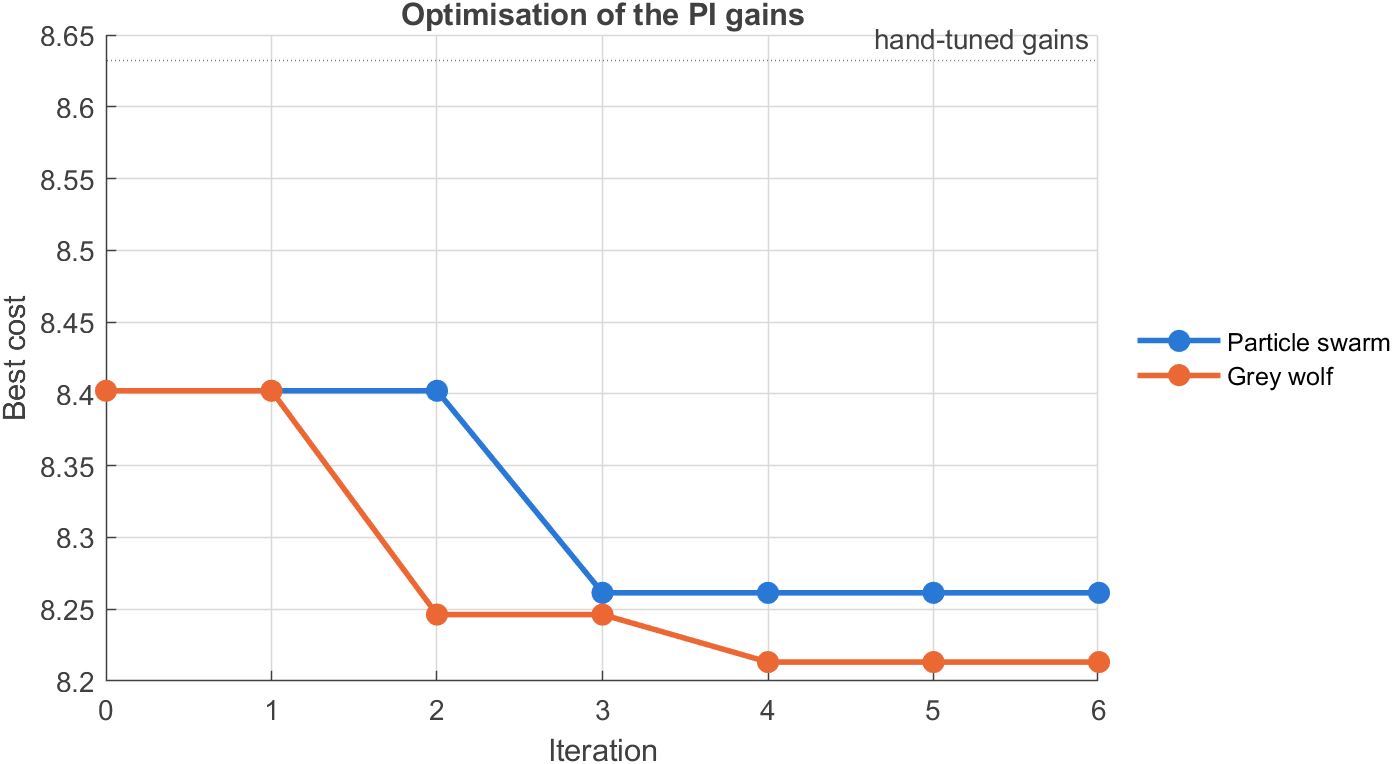
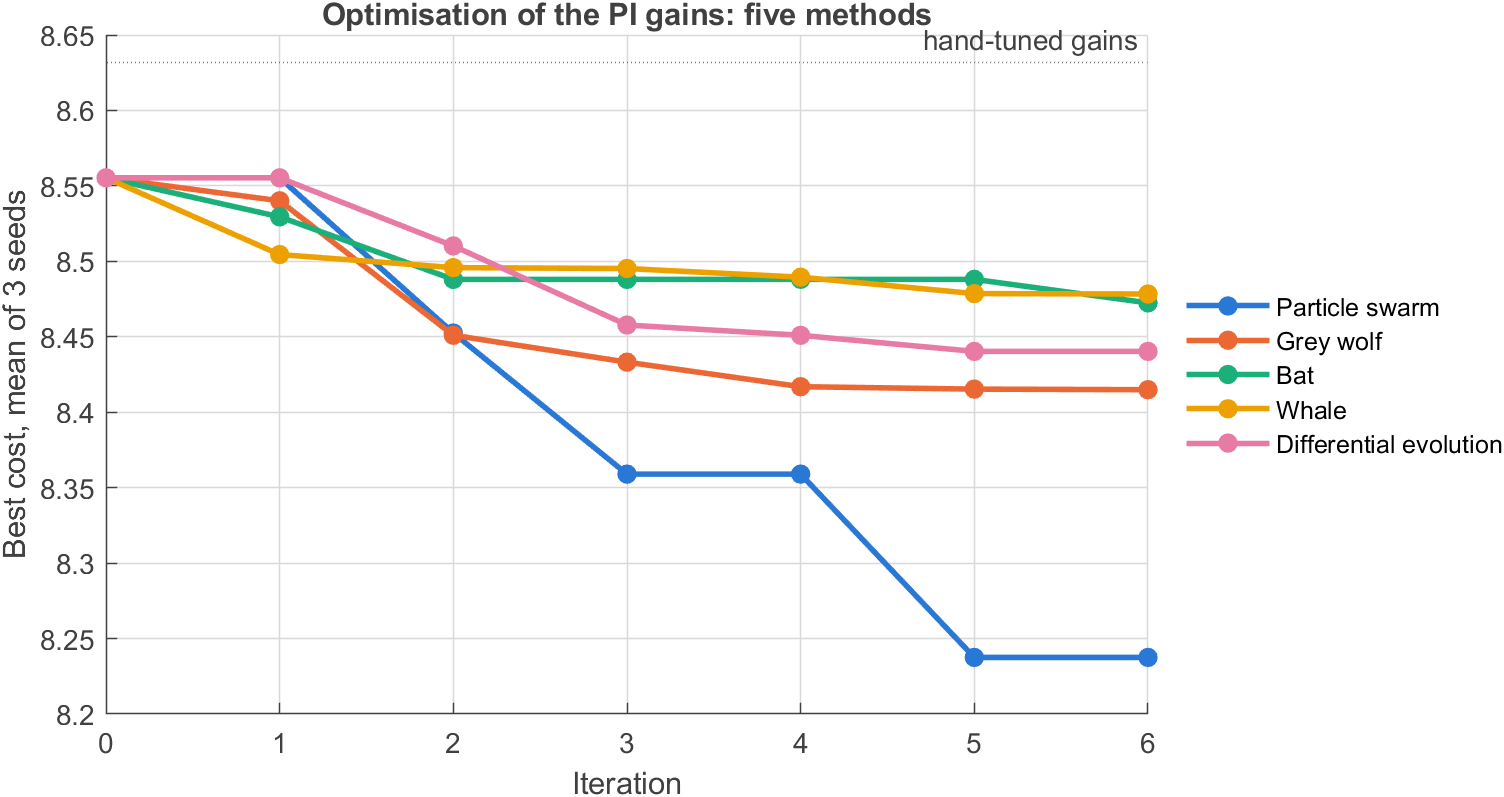
Final five-optimiser comparison over three seeds

diff --git a/README.md b/README.md
@@ -366,87 +366,70 @@ the hand-tuned PI gains.
 
 ## Optimisation of the PI gains
 
-### Five-method comparison (in progress)
+Five optimisers tune five gains on the combined model: particle swarm (PSO),
+grey wolf (GWO), bat (BA), whale (WOA) and differential evolution (DE). Every
+method uses 8 agents and 6 iterations (56 simulations per run) and, for a
+given random seed, the same starting population, which includes the
+hand-tuned gains. Each method was run with three seeds, 15 runs in all.
 
-Five optimisers are being compared on the same problem: particle swarm, grey
-wolf, bat, whale and differential evolution. Each uses 8 agents, 6 iterations
-(56 simulations) and, for a given seed, the same starting population. Three
-seeds are run per method so that the ranking rests on a mean, not on one run.
-
-Status at 07 October 2026, 00:54: 10 of 15 runs finished. The table is partial and the
-order may change as the remaining runs complete. The hand-tuned cost is
-8.632; lower is better. Methods are ordered by their mean so far, which
-is not yet comparable between methods with different numbers of finished runs.
-
-| Method | Seed 1 | Seed 2 | Seed 3 | Mean so far | Reduction from hand-tuned |
-|---|---|---|---|---|---|
-| Particle swarm | 8.261 | 8.223 | running or queued | 8.242 | 4.5 % |
-| Grey wolf | 8.213 | 8.511 | running or queued | 8.362 | 3.1 % |
-| Differential evolution | 8.246 | 8.540 | running or queued | 8.393 | 2.8 % |
-| Bat | 8.237 | 8.626 | running or queued | 8.431 | 2.3 % |
-| Whale | 8.255 | 8.618 | running or queued | 8.437 | 2.3 % |
-
-The finished runs are within about 1 % of each other, so no method can be
-called best yet. The placement and rating study and the test of each method's
-gains on all four faults follow when the runs finish.
-
-Two optimisers tune five gains on the combined model: particle swarm (PSO) and
-the grey wolf optimiser (GWO). Both use 8 agents, 6 iterations (56 simulations)
-and the same starting population, which includes the hand-tuned gains. Each
-candidate is scored on one simulation with a single line-to-ground fault. The
-cost is
+Each candidate is scored on one simulation with a single line-to-ground fault.
+The cost is
 
 `4 x load-voltage error + voltage THD + current distortion + negative-sequence current + 100 x (1 - power factor) + 0.2 x DC-link deviation`
 
 with every term in percent and the two current terms taken against the
-transformer rating.
+transformer rating. The hand-tuned gains score 8.632; lower is better.
 
-| Gain | Hand-tuned | PSO | GWO | Search range |
-|---|---|---|---|---|
-| D-STATCOM current-loop bandwidth (Hz) | 1500 | 1755 | 1570 | 500 to 2500 |
-| D-STATCOM DC-link Kp (A/V) | 1.0 | 2.35 | 2.35 | 0.2 to 5 |
-| D-STATCOM DC-link Ki (A/V/s) | 15 | 105 | 27 | 2 to 200 |
-| DVR load-voltage Kp | 0.2 | 0.90 | 0.90 | 0 to 0.9 |
-| DVR load-voltage Ki | 200 | 20 | 319 | 20 to 2000 |
-| Cost on the tuning fault | 8.632 | 8.261 | 8.213 | |
-| Reduction from hand-tuned | | 4.3 % | 4.9 % | |
-
-Each gain set was then tested on all four fault types:
-
-| Quantity | Hand-tuned | PSO | GWO |
-|---|---|---|---|
-| Cost, four faults | 8.59 / 8.60 / 9.11 / 8.83 | 8.10 / 8.21 / 8.38 / 8.14 | 8.06 / 8.17 / 8.38 / 8.13 |
-| Load voltage THD (%) | 3.55 | 3.01 | 2.88 |
-| Negative-sequence source current (% of rating) | 0.74 | 0.65 | 0.71 |
-| Source current distortion (% of rating) | 3.02 | 3.05 | 3.14 |
-| Load voltage unbalance during fault, four faults (%) | 0.04 / 0.34 / 0.77 / 0.68 | 0.03 / 0.22 / 0.49 / 0.44 | 0.02 / 0.21 / 0.48 / 0.43 |
-| DC-link deviation (%) | 1.4 | 1.7 | 1.4 |
+| Method | Seed 1 | Seed 2 | Seed 3 | Mean | Spread (std) | Mean reduction |
+|---|---|---|---|---|---|---|
+| Particle swarm | 8.261 | 8.223 | 8.228 | **8.237** | 0.021 | **4.6 %** |
+| Grey wolf | 8.213 | 8.511 | 8.521 | 8.415 | 0.175 | 2.5 % |
+| Differential evolution | 8.246 | 8.540 | 8.535 | 8.440 | 0.168 | 2.2 % |
+| Bat | 8.237 | 8.626 | 8.554 | 8.472 | 0.207 | 1.8 % |
+| Whale | 8.255 | 8.618 | 8.562 | 8.478 | 0.195 | 1.8 % |
 
 ![Optimisation convergence](results/optim_convergence.png)
 
-- Both optimisers improve on the hand-tuned gains by a small amount: 4 to 5 %
-  on the fault used for tuning and 5 to 8 % on the four test faults.
-- GWO finishes 0.6 % below PSO. With one run each and 56 simulations, that
-  difference is too small to rank the two methods; repeated runs with
-  different seeds would be needed.
-- The two agree on the D-STATCOM DC-link Kp (2.35) and push the DVR Kp to the
-  top of its range, but disagree on both integral gains. The cost is not
-  sensitive to those, so they should not be read as optima.
-- The hand-tuned gains were already close to the best the PI structure can do
-  here. The remaining limits are structural (harmonic tracking of the current
-  loop, and the wind plant outside the DVR) rather than a matter of tuning.
+**Particle swarm is the method to use for this problem.** It has the lowest
+mean cost and is the only method that did well on all three seeds; its spread
+is about eight times smaller than the others'. The other four found a good
+solution only from the first seed's starting population and improved on the
+hand-tuned gains by 1 % to 1.5 % from the other two. Grey wolf produced the
+single lowest cost (8.213), which is why a one-run comparison would have
+ranked it first.
+
+The improvement over the hand-tuned gains is small in every case, at most
+about 5 %. The hand-tuned gains were already close to what PI control can do
+here; the remaining limits are structural (harmonic tracking of the current
+loop, and the wind plant outside the DVR). With 56 simulations per run, the
+ranking is specific to this budget: methods that explore more slowly could
+catch up with more iterations.
+
+Best gains found by each method, over its three seeds:
+
+| Gain | Hand-tuned | PSO | GWO | DE | BA | WOA | Search range |
+|---|---|---|---|---|---|---|---|
+| D-STATCOM current-loop bandwidth (Hz) | 1500 | 1633 | 1570 | 1551 | 1615 | 1577 | 500 to 2500 |
+| D-STATCOM DC-link Kp (A/V) | 1.0 | 4.06 | 2.35 | 2.10 | 2.17 | 3.00 | 0.2 to 5 |
+| D-STATCOM DC-link Ki (A/V/s) | 15 | 35 | 27 | 7 | 11 | 12 | 2 to 200 |
+| DVR load-voltage Kp | 0.2 | 0.90 | 0.90 | 0.90 | 0.90 | 0.90 | 0 to 0.9 |
+| DVR load-voltage Ki | 200 | 20 | 319 | 242 | 290 | 529 | 20 to 2000 |
+
+All five agree on a current-loop bandwidth of about 1550 to 1650 Hz and a
+higher DC-link proportional gain than the hand-tuned one, and all push the
+DVR proportional gain to the top of its range. They disagree on the DVR
+integral gain, to which the cost is not sensitive.
 
 An earlier PSO run without the voltage THD term lowered its cost by 17 % but
-raised load voltage THD from 3.55 % to 4.68 %, so the term was added and the
-runs repeated. Device location and rating have not been optimised.
+raised load voltage THD from 3.55 % to 4.68 %, so the term was added and all
+runs use the corrected cost.
 
-To reproduce (each optimisation takes about 10 minutes on four cores and needs
-the Parallel Computing Toolbox; PSO also needs the Global Optimization
-Toolbox):
+To reproduce (about 2.5 hours on four cores; needs the Parallel Computing
+Toolbox, and the Global Optimization Toolbox for PSO):
 
 ```matlab
 addpath('scripts'); build_basecase; build_full;
-optimise_gains('pso'); optimise_gains('gwo'); run_full;
+compare_optimisers(1:3); run_full;
 ```
 
 ## Contents
@@ -468,7 +451,8 @@ optimise_gains('pso'); optimise_gains('gwo'); run_full;
 | `IEEE13_dg.slx` | Base-case model plus the PV plant at node 634 and the wind plant at node 675 |
 | `IEEE13_full.slx` | Base-case model plus the DVR, the D-STATCOM, the PV plant and the wind plant |
 | `scripts/build_full.m`, `scripts/run_full.m` | Build the combined model; run its four faults with the hand-tuned, PSO and GWO gains |
-| `scripts/optimise_gains.m` | Particle swarm and grey wolf optimisation of the PI gains |
+| `scripts/optimise_gains.m` | Optimisation of the PI gains: particle swarm, grey wolf, bat, whale or differential evolution |
+| `scripts/compare_optimisers.m` | Runs all five optimisers over several seeds and ranks them |
 | `scripts/full_input.m`, `scripts/full_metrics.m` | One simulation setup of the combined model, and its performance measures and cost |
 | `scripts/add_dvr.m`, `scripts/add_dstatcom.m` | Add the DVR or the D-STATCOM to a model built from the base case |
 | `scripts/log_source_current.m` | Logs the source-side current at node 634 |
